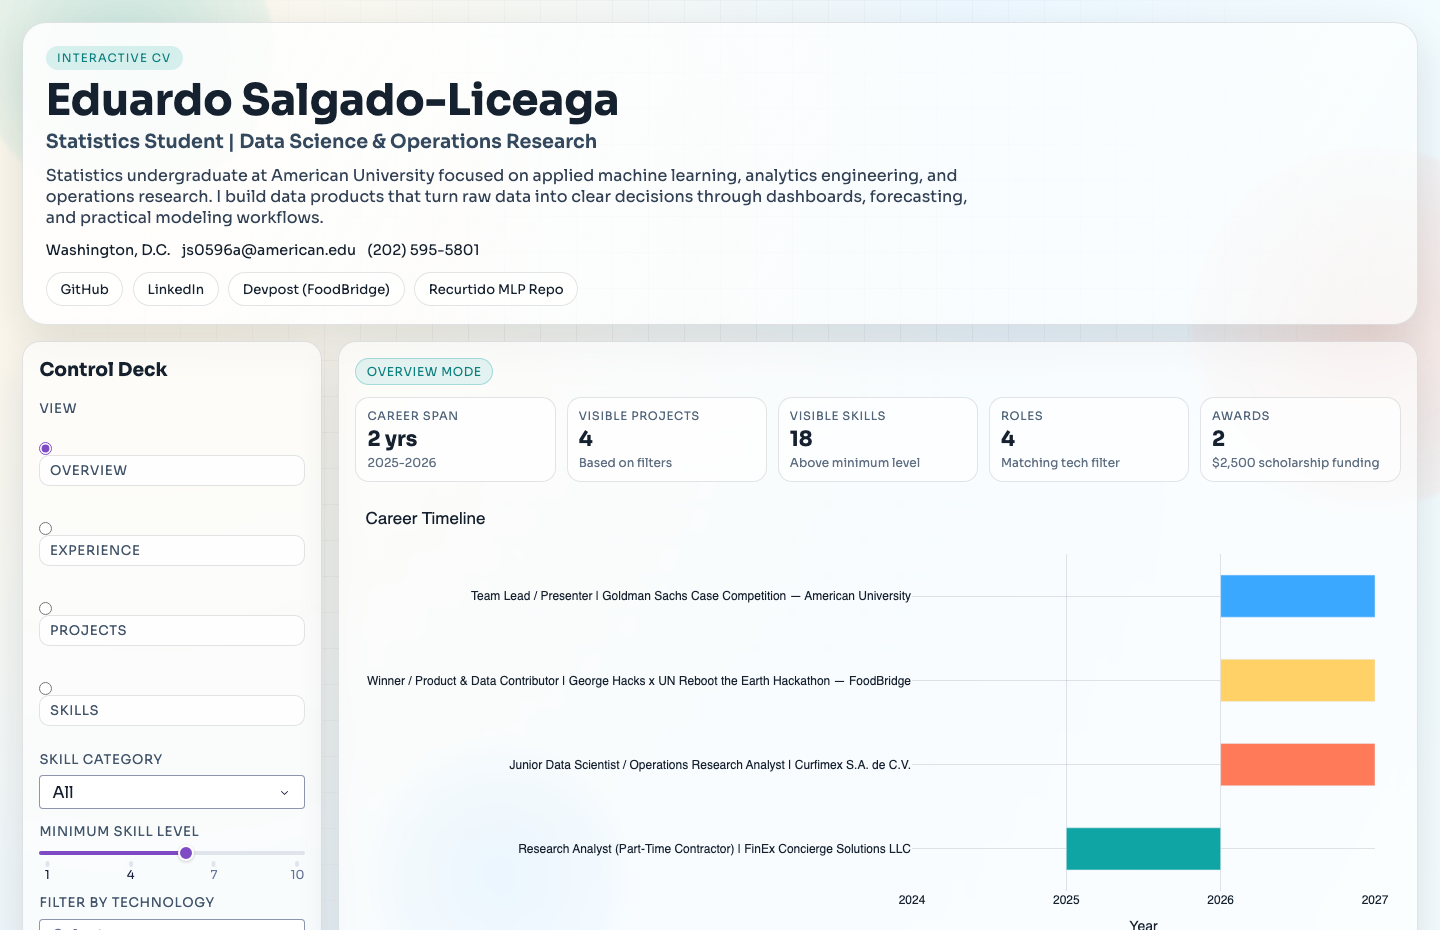
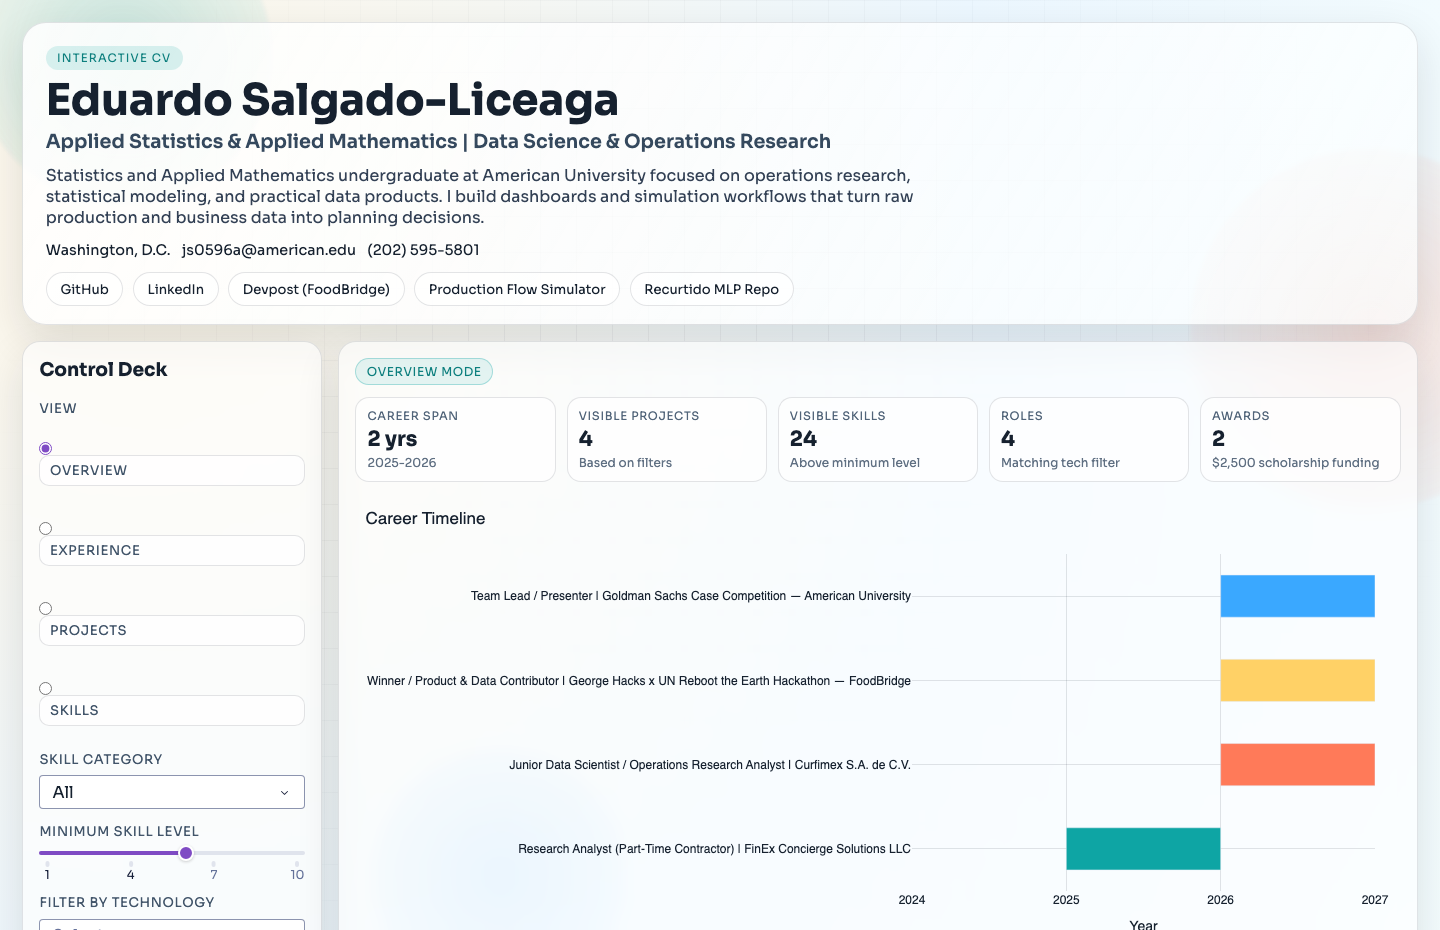
Refresh README screenshots

diff --git a/README.md b/README.md
@@ -4,6 +4,16 @@ This is my resume as an interactive Dash app.
 
 The app presents my education, work experience, leadership experience, projects, skills, and awards in a format that is easier to explore than a static PDF. I use it as a portfolio companion to my resume, especially for showing the technical projects behind my operations research, analytics, and machine learning experience.
 
+## Quick Look
+
+![Overview](docs/screenshots/01-overview.png)
+
+![Experience and awards](docs/screenshots/02-experience-awards.png)
+
+![Production Flow project](docs/screenshots/03-projects-production-flow.png)
+
+![Skills](docs/screenshots/04-skills.png)
+
 ## Resume Focus
 
 The current version reflects my updated resume focus:
